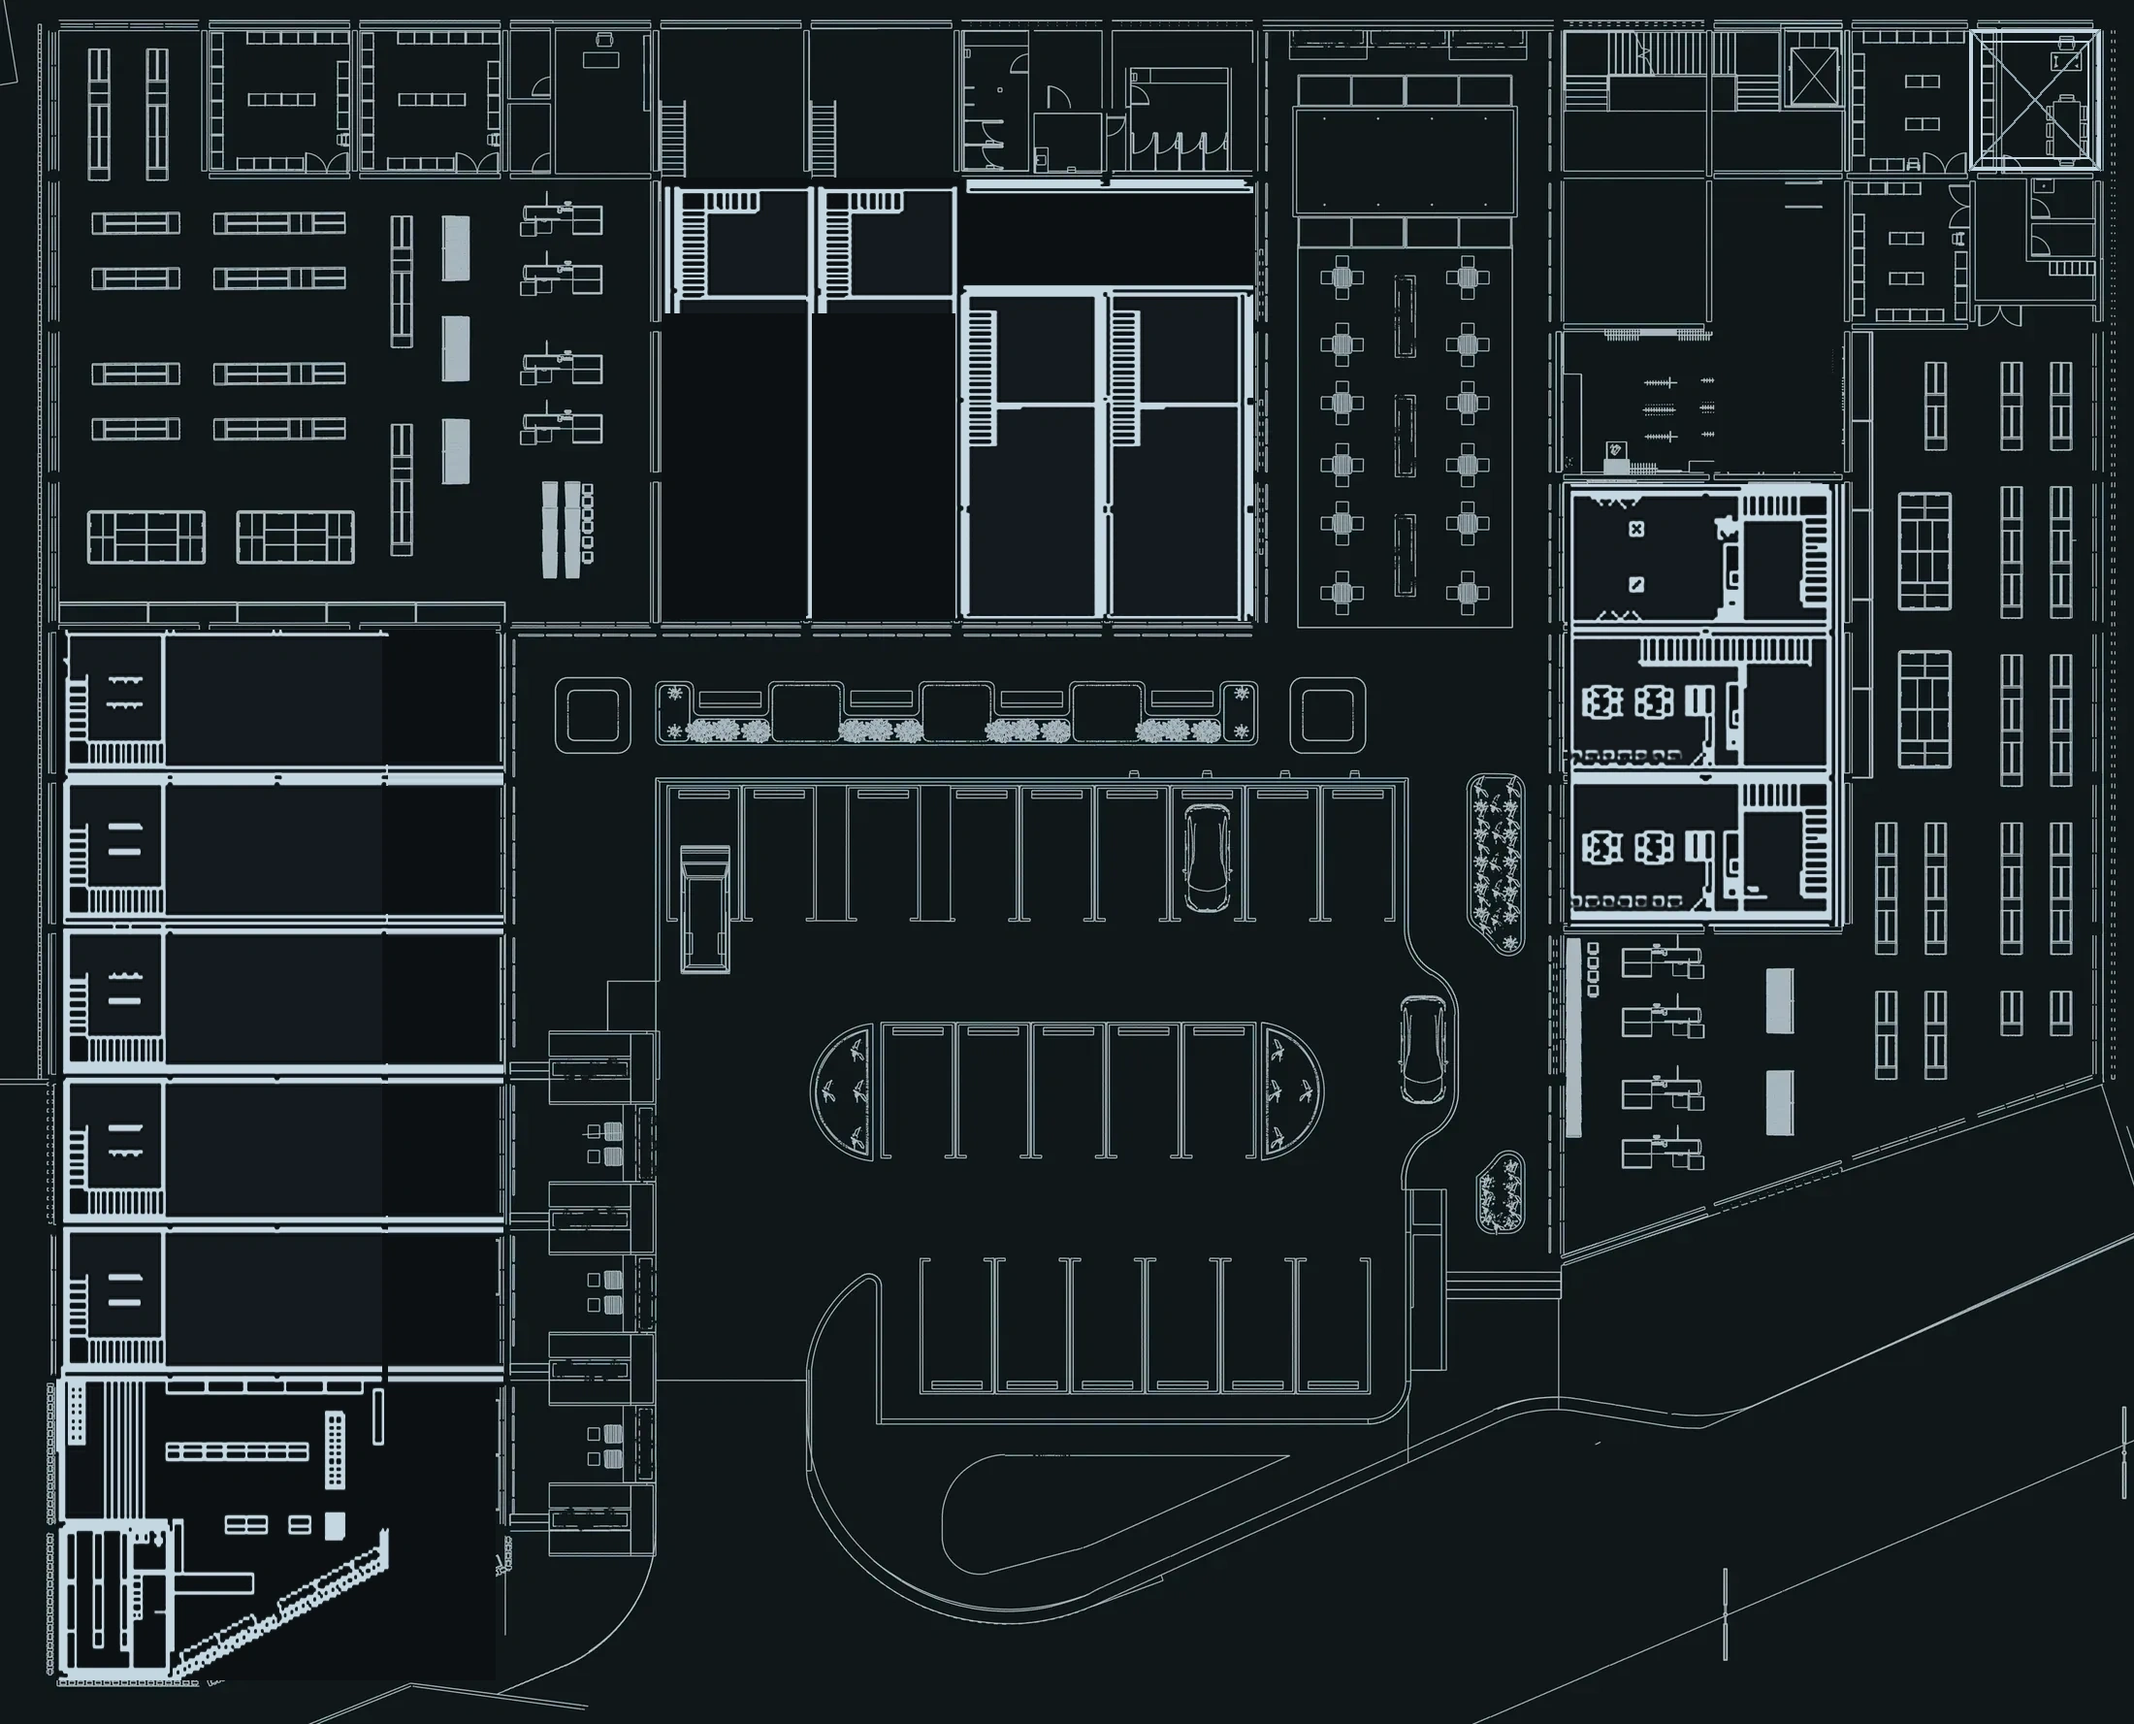
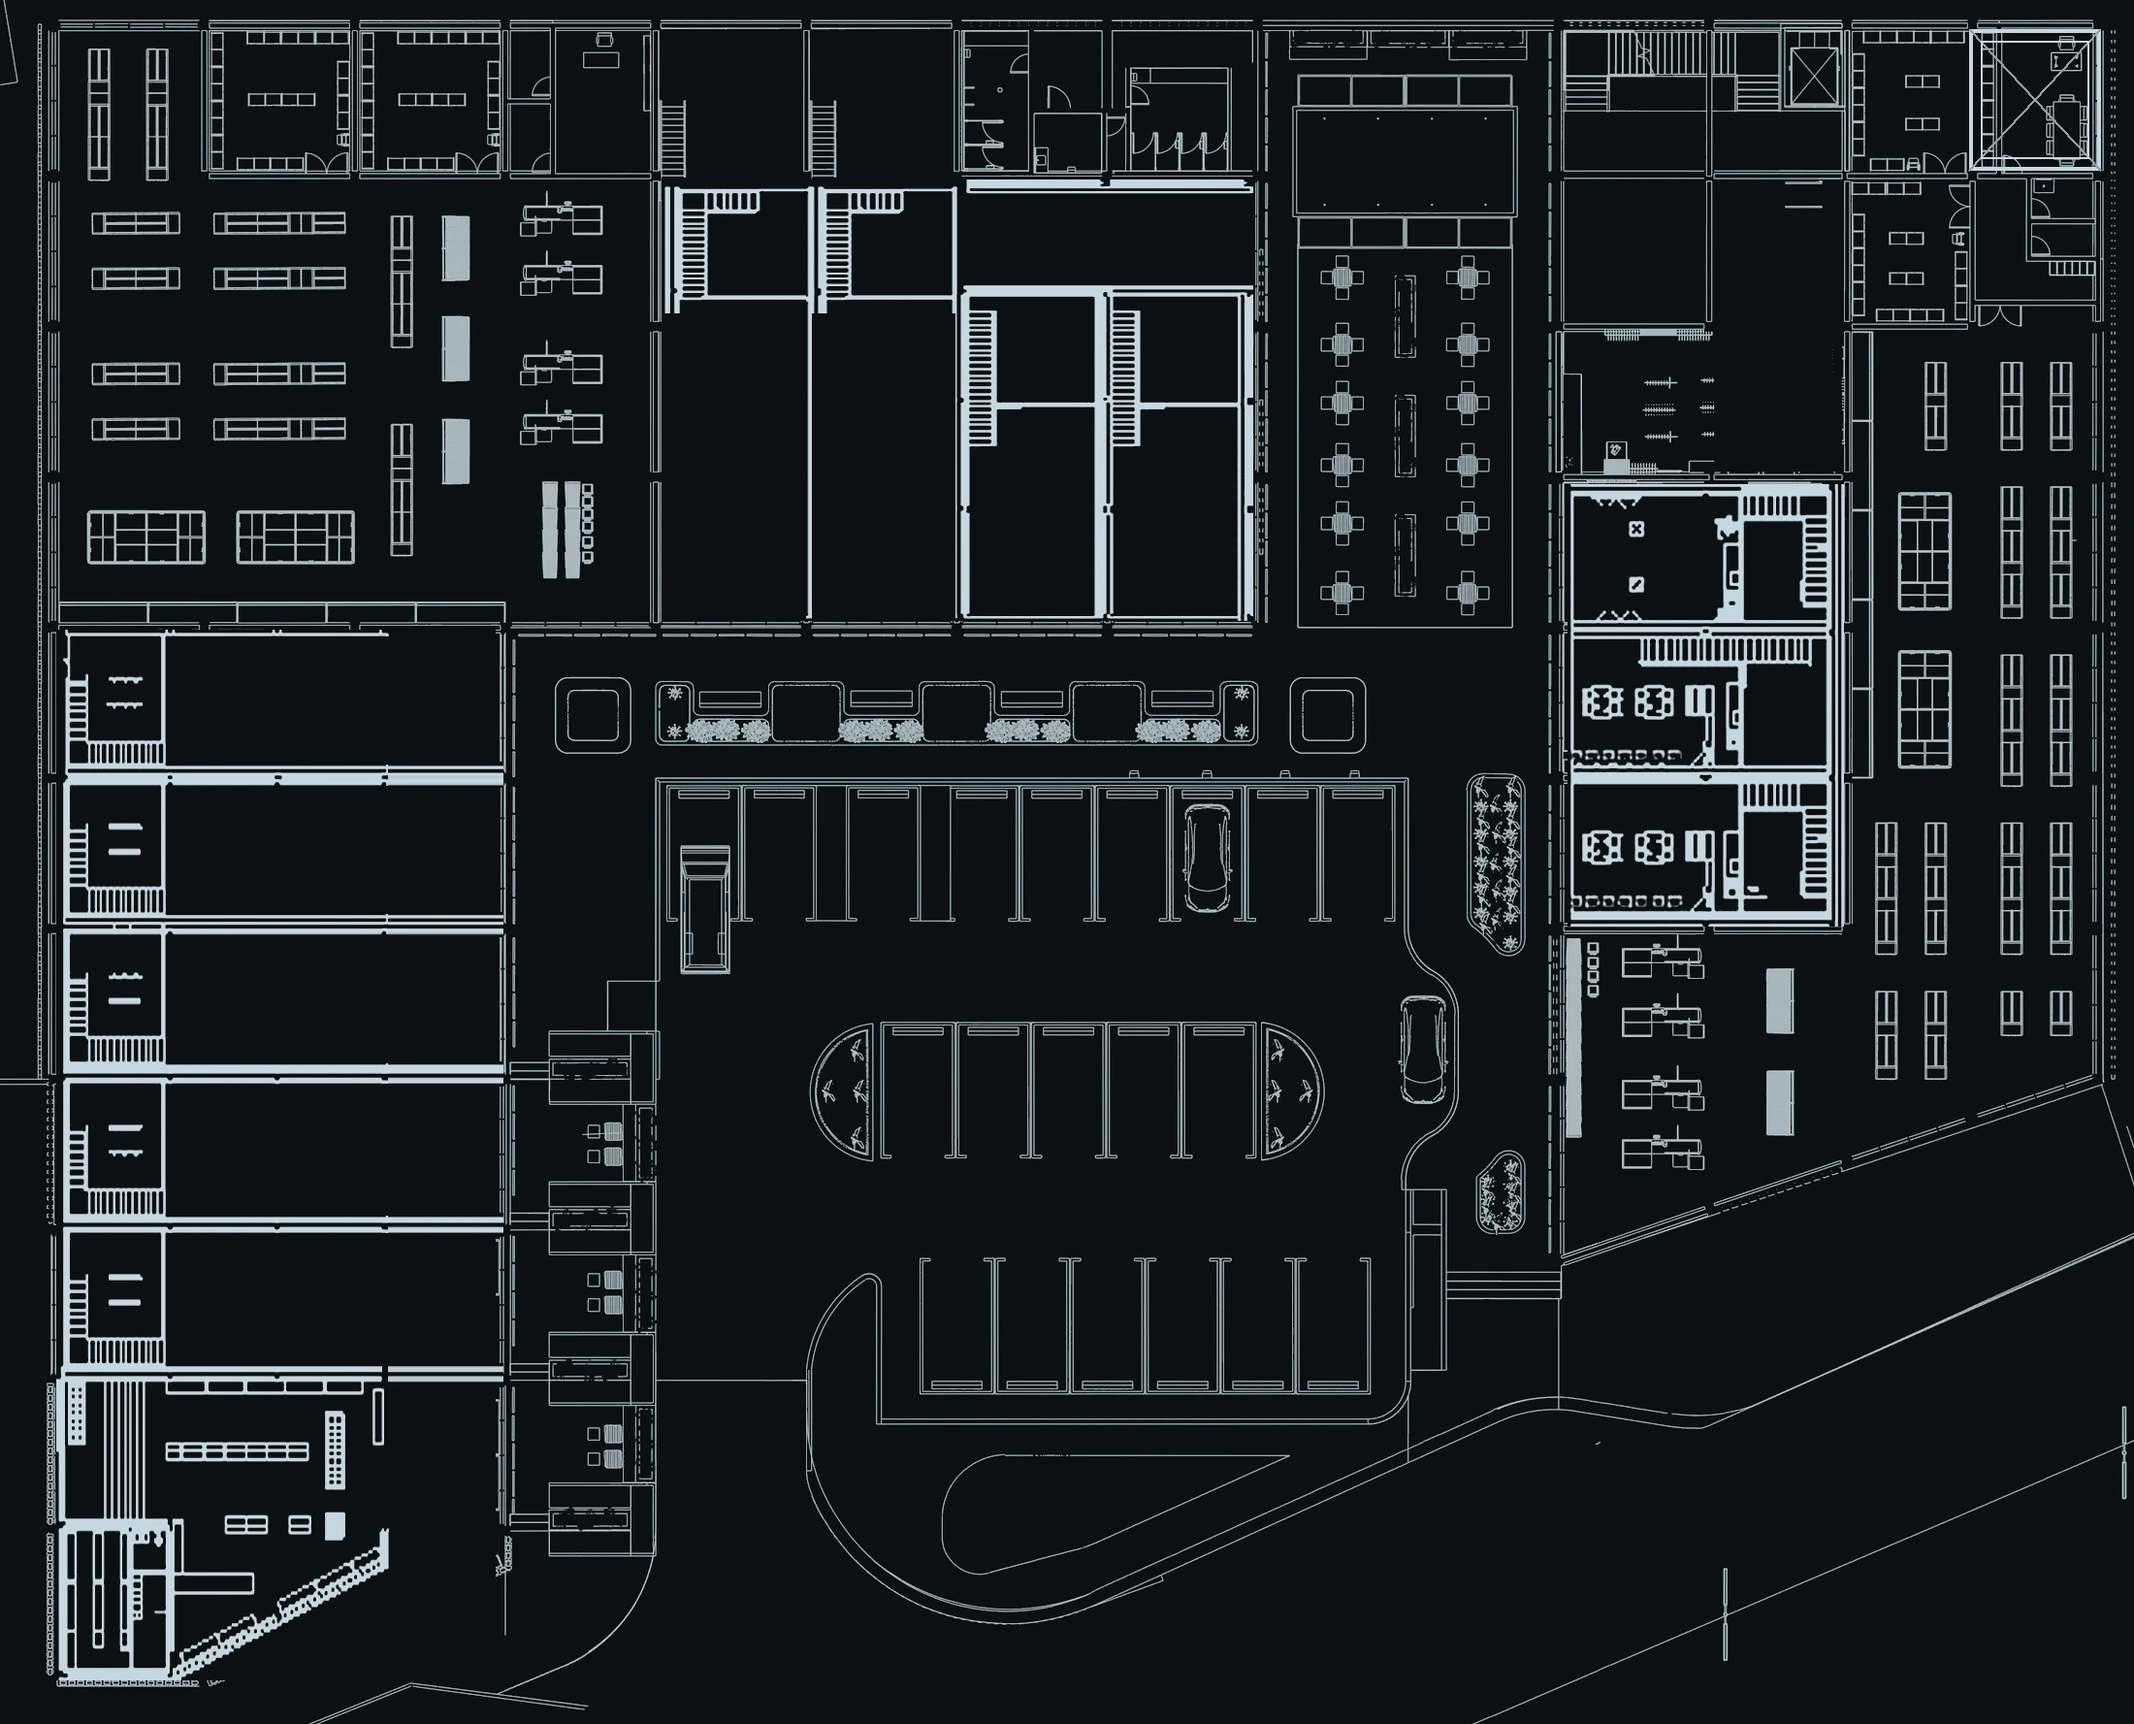
Unificar color de piso a tono oscuro unico, Local 4 cuadrado y actualizar Locales 13 a 16

diff --git a/script.js b/script.js
@@ -98,7 +98,7 @@ const geoP1 = {
   '1': { pts: R(285,106,340,209) },
   '2': { pts: R(229,106,285,209) },
   '3': { pts: R(175,106,229,209) },
-  '4': { pts: [[65,106],[175,106],[175,209],[119,209],[119,155],[65,155]], c: [147,143] },
+  '4': { pts: R(65,106,175,209) },
   rest: { pts: R(10,215,229,309) },
   '5': { pts: R(65,320,229,376) },
   '6': { pts: R(65,376,229,430) },
@@ -109,7 +109,8 @@ const geoP1 = {
   '10': { pts: R(285,595,340,763) },
   '11': { pts: R(340,595,395,763) },
   '12': { pts: R(395,595,450,763) },
-  cv: { pts: [[451,595],[573,595],[616,735],[616,763],[451,763]], c: [520,680] },
+  '13': { pts: R(450,595,505,763) },
+  '14': { pts: [[505,595],[573,595],[616,735],[616,763],[505,763]], c: [545,680] },
   pkg: { pts: [[281,258],[352,258],[368,248],[403,248],[417,265],[487,265],[514,288],[514,438],[492,473],[514,480],[514,539],[281,539]] }
 };
 
@@ -260,22 +261,23 @@ const LEVELS = {
     title: 'Donde tu marca pertenece',
     lead: 'Explora la distribución comercial del primer piso. Presiona cualquier local, ancla o zona para ver sus especificaciones y planos detallados.',
     units: [
-      { id: '1', name: 'Local 1', s: 'a', area: '62 m²', use: 'Retail / Comercio', photo: 'https://images.unsplash.com/photo-1528698827591-e19ccd7bc23d?auto=format&fit=crop&w=700&q=80', desc: 'Local en la franja superior, contiguo al Local 13.' },
+      { id: '1', name: 'Local 1', s: 'a', area: '62 m²', use: 'Retail / Comercio', photo: 'https://images.unsplash.com/photo-1528698827591-e19ccd7bc23d?auto=format&fit=crop&w=700&q=80', desc: 'Local en la franja superior, contiguo al Local 16 & Terraza.' },
       { id: '2', name: 'Local 2', s: 'a', area: '62 m²', use: 'Retail / Comercio', photo: 'https://images.unsplash.com/photo-1441986300917-64674bd600d8?auto=format&fit=crop&w=700&q=80', desc: 'Local en la franja superior, entre los locales 1 y 3.' },
       { id: '3', name: 'Local 3', s: 'a', area: '62 m²', use: 'Retail / Comercio', photo: 'https://images.unsplash.com/photo-1472851294608-062f824d29cc?auto=format&fit=crop&w=700&q=80', desc: 'Local en la franja superior, entre los locales 2 y 4.' },
-      { id: '4', name: 'Local 4', s: 'a', area: '93 m²', use: 'Retail / Comercio', photo: 'https://images.unsplash.com/photo-1567401893414-76b7b1e5a7a5?auto=format&fit=crop&w=700&q=80', desc: 'Local en L, el de mayor área de la franja superior.' },
+      { id: '4', name: 'Local 4', s: 'a', area: '113 m²', use: 'Retail / Comercio', photo: 'https://images.unsplash.com/photo-1567401893414-76b7b1e5a7a5?auto=format&fit=crop&w=700&q=80', desc: 'Local comercial de planta cuadrada en la franja superior, junto a circulaciones y escaleras.' },
       { id: '5', name: 'Local 5', s: 'a', area: '99 m²', use: 'Retail / Comercio', photo: 'https://images.unsplash.com/photo-1441986300917-64674bd600d8?auto=format&fit=crop&w=700&q=80', desc: 'Local en la columna izquierda, junto a la batería de baños.' },
       { id: '6', name: 'Local 6', s: 'a', area: '99 m²', use: 'Retail / Comercio', photo: 'https://images.unsplash.com/photo-1472851294608-062f824d29cc?auto=format&fit=crop&w=700&q=80', desc: 'Local en la columna izquierda, entre los locales 5 y 7.' },
-      { id: '7', name: 'Local 7', s: 'a', area: '132 m²', use: 'Retail / Comercio', photo: 'https://images.unsplash.com/photo-1567401893414-76b7b1e5a7a5?auto=format&fit=crop&w=700&q=80', desc: 'Local de fondo completo en la columna izquierda.' },
-      { id: '8', name: 'Local 8', s: 'a', area: '132 m²', use: 'Retail / Comercio', photo: 'https://images.unsplash.com/photo-1604719312566-8912e9227c6a?auto=format&fit=crop&w=700&q=80', desc: 'Local de fondo completo en la columna izquierda, contiguo al Local 14.' },
+      { id: '7', name: 'Local 7', s: 'a', area: '132 m²', use: 'Retail / Comercio', photo: 'https://images.unsplash.com/photo-1567401893414-76b7b1e5a7a5?auto=format&fit=crop&w=700&q=80', desc: 'Local de fondo completo en la columna izquierda con mezanina reubicada al muro perimetral.' },
+      { id: '8', name: 'Local 8', s: 'a', area: '132 m²', use: 'Retail / Comercio', photo: 'https://images.unsplash.com/photo-1604719312566-8912e9227c6a?auto=format&fit=crop&w=700&q=80', desc: 'Local de fondo completo en la columna izquierda, contiguo al Local 15.' },
       { id: '9', name: 'Local 9', s: 'a', area: '99 m²', use: 'Retail / Comercio', photo: 'https://images.unsplash.com/photo-1517245386807-bb43f82c33c4?auto=format&fit=crop&w=700&q=80', desc: 'Local en la fila inferior, frente a la circulación central.' },
       { id: '10', name: 'Local 10', s: 'a', area: '98 m²', use: 'Retail / Comercio', photo: 'https://images.unsplash.com/photo-1497366216548-37526070297c?auto=format&fit=crop&w=700&q=80', desc: 'Local en la fila inferior, entre los locales 9 y 11.' },
       { id: '11', name: 'Local 11', s: 'a', area: '99 m²', use: 'Retail / Comercio', photo: 'https://images.unsplash.com/photo-1441986300917-64674bd600d8?auto=format&fit=crop&w=700&q=80', desc: 'Local en la fila inferior, entre los locales 10 y 12.' },
-      { id: '12', name: 'Local 12', s: 'a', area: '99 m²', use: 'Retail / Comercio', photo: 'https://images.unsplash.com/photo-1472851294608-062f824d29cc?auto=format&fit=crop&w=700&q=80', desc: 'Local en la fila inferior, contiguo al Local 15.' },
-      { id: 'ara', name: 'Local 13 & Terraza', s: 'a', area: '640 m²', use: 'Retail / Comercio & Terraza', photo: 'https://images.unsplash.com/photo-1441986300917-64674bd600d8?auto=format&fit=crop&w=700&q=80', desc: 'Local comercial de gran formato con terraza cubierta y zona exterior integrada bajo el Local 1.', lbl: '13' },
+      { id: '12', name: 'Local 12', s: 'a', area: '99 m²', use: 'Retail / Comercio', photo: 'https://images.unsplash.com/photo-1472851294608-062f824d29cc?auto=format&fit=crop&w=700&q=80', desc: 'Local en la fila inferior, entre los locales 11 y 13.' },
+      { id: '13', name: 'Local 13', s: 'a', area: '99 m²', use: 'Retail / Comercio', photo: 'https://images.unsplash.com/photo-1528698827591-e19ccd7bc23d?auto=format&fit=crop&w=700&q=80', desc: 'Local comercial rectangular recto con el perímetro, contiguo al Local 12.', lbl: '13' },
+      { id: '14', name: 'Local 14', s: 'a', area: '195 m²', use: 'Retail / Comercio', photo: 'https://images.unsplash.com/photo-1567401893414-76b7b1e5a7a5?auto=format&fit=crop&w=700&q=80', desc: 'Local comercial en esquina inferior con vitrina hacia la rotonda vehicular.', lbl: '14' },
+      { id: 'd1', name: 'Local 15', s: 'a', area: '557 m²', use: 'Supermercado / Gran Formato', photo: 'https://images.unsplash.com/photo-1472851294608-062f824d29cc?auto=format&fit=crop&w=700&q=80', desc: 'Almacén ancla de gran formato en la esquina superior izquierda.', lbl: '15' },
+      { id: 'ara', name: 'Local 16 & Terraza', s: 'a', area: '640 m²', use: 'Retail / Gran Formato & Terraza', photo: 'https://images.unsplash.com/photo-1441986300917-64674bd600d8?auto=format&fit=crop&w=700&q=80', desc: 'Local comercial de gran formato con terraza cubierta y zona exterior integrada bajo el Local 1.', lbl: '16' },
       { id: 'asc', name: 'Ascensor', s: 'a', area: '12 m²', use: 'Circulación Vertical', photo: 'assets/hero.jpg', desc: 'Ascensor de acceso rápido entre el Primer Piso y el Piso 2 de Oficinas Corporativas y Restaurante.', lbl: 'ASC' },
-      { id: 'd1', name: 'Local 14', s: 'a', area: '557 m²', use: 'Retail / Comercio', photo: 'https://images.unsplash.com/photo-1472851294608-062f824d29cc?auto=format&fit=crop&w=700&q=80', desc: 'Local de gran formato en la esquina inferior izquierda del primer piso.', lbl: '14' },
-      { id: 'cv', name: 'Local 15', s: 'a', area: '284 m²', use: 'Retail / Comercio', photo: 'https://images.unsplash.com/photo-1567401893414-76b7b1e5a7a5?auto=format&fit=crop&w=700&q=80', desc: 'Local en la esquina inferior derecha del primer piso.', lbl: '15' },
       { id: 'rest', name: 'Restaurante', s: 'a', area: '245 m²', use: 'Gastronomía / Restaurante', photo: 'https://images.unsplash.com/photo-1517248135467-4c7edcad34c4?auto=format&fit=crop&w=700&q=80', desc: 'Zona de restaurante con mesas, frente a la circulación central.', lbl: 'R' },
       { id: 'pkg', name: 'Parqueadero Central', s: 'a', area: '1.450 m²', use: 'Estacionamiento & Rotonda', photo: 'assets/sotano-parqueadero.webp', desc: 'Parqueadero central y espacio público. Haz doble clic en la zona o en su ficha para abrir la vista panorámica 360°.' }
     ],
@@ -284,7 +286,7 @@ const LEVELS = {
       const geometry = Object.fromEntries(Object.entries(geoP1).map(([id, g]) => [id, {
         pts: g.pts.map(rotate), ...(g.c ? { c: rotate(g.c) } : {})
       }]));
-      return renderCadPlan(units, geometry, 'assets/plano-piso1-cad.webp?v=74', 780, 630,
+      return renderCadPlan(units, geometry, 'assets/plano-piso1-cad.webp?v=75', 780, 630,
         'Planta arquitectónica del primer piso de Rivers Mall');
     }
   },

diff --git a/index.html b/index.html
@@ -281,6 +281,6 @@
 </div>
 
 <script src="https://cdnjs.cloudflare.com/ajax/libs/leaflet/1.9.4/leaflet.min.js"></script>
-<script src="script.js?v=74"></script>
+<script src="script.js?v=75"></script>
 </body>
 </html>
